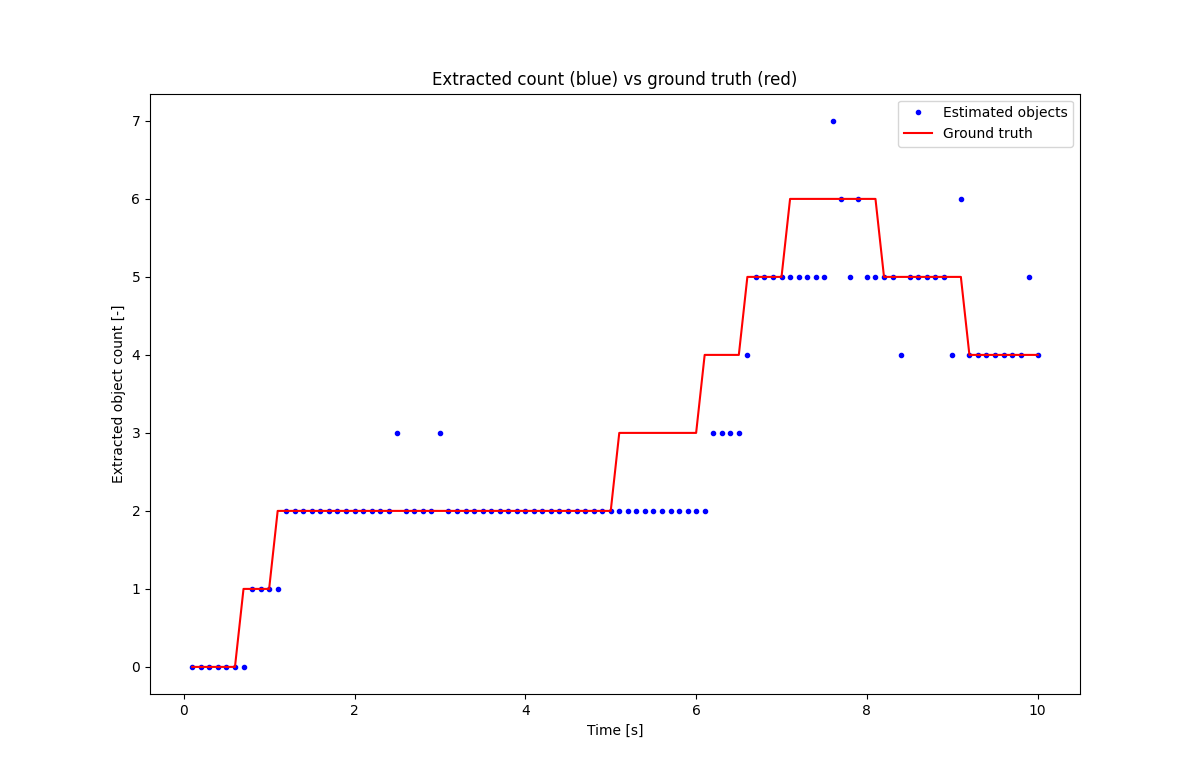
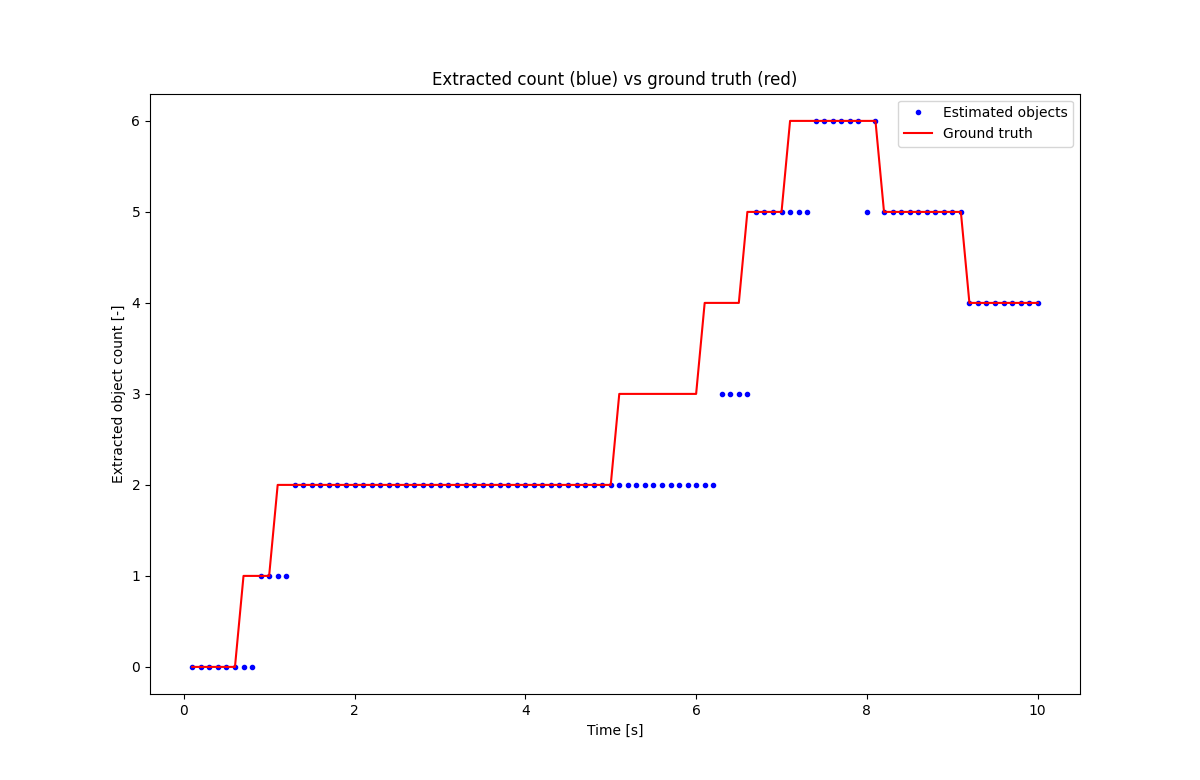
docs: update README for improved clarity and reproducibility; enhance example descriptions
feat: refactor simulation generation and parameter tuning in example code

fix: update binary figures for object count, OSPA, PHD weight sum, and position plots

diff --git a/example/example.cpp b/example/example.cpp
@@ -1,6 +1,7 @@
 #include <algorithm>
 #include <array>
 #include <filesystem>
+#include <initializer_list>
 #include <iostream>
 #include <limits>
 #include <map>
@@ -24,17 +25,18 @@ constexpr double ospa_cutoff = 10.0;
 constexpr double ospa_order = 2.0;
 
 constexpr unsigned int random_seed = 20261018u;
-std::mt19937 e1(random_seed);
-
-std::uniform_int_distribution<size_t> objects_number_dist(3u, 7u);
-std::uniform_int_distribution<size_t> start_dist(0u, measurements_number - 20u);
-std::uniform_int_distribution<size_t> duration_dist(20u, measurements_number);
-std::uniform_real_distribution<double> pose_dist(-10.0, 10.0);
-std::uniform_real_distribution<double> velocity_dist(-1.0, 1.0);
-std::uniform_real_distribution<double> clutter_position_dist(clutter_area_min, clutter_area_max);
-std::poisson_distribution<size_t> clutter_count_dist(8.0);
 using Filter = gm_phd_example::GmPhdCv;
 using Measurements = std::vector<Filter::Measurement>;
+
+struct FilterParameters {
+  double pd = 1.0;
+  double ps = 0.95;
+  double kappa =
+      8.0 / ((clutter_area_max - clutter_area_min) * (clutter_area_max - clutter_area_min));
+  double truncation_threshold = 0.01;
+  double merging_threshold = 4.0;
+  double extraction_threshold = 0.5;
+};
 
 struct SimulatedObject {
   size_t first_scan;
@@ -49,21 +51,39 @@ struct Simulation {
   std::vector<Measurements> clutter;
 };
 
-Simulation GenerateSimulation(void) {
+struct ExperimentResult {
+  std::vector<std::vector<Filter::Object>> objects_by_scan;
+  std::vector<int> object_count;
+  std::vector<int> truth_object_count;
+  std::vector<double> weights_sum;
+  std::vector<double> ospa_scores;
+  double mean_ospa = 0.0;
+};
+
+Simulation GenerateSimulation(const unsigned int seed) {
+  std::mt19937 random_engine(seed);
+  std::uniform_int_distribution<size_t> objects_number_dist(3u, 7u);
+  std::uniform_int_distribution<size_t> start_dist(0u, measurements_number - 20u);
+  std::uniform_int_distribution<size_t> duration_dist(20u, measurements_number);
+  std::uniform_real_distribution<double> pose_dist(-10.0, 10.0);
+  std::uniform_real_distribution<double> velocity_dist(-1.0, 1.0);
+  std::uniform_real_distribution<double> clutter_position_dist(clutter_area_min, clutter_area_max);
+  std::poisson_distribution<size_t> clutter_count_dist(8.0);
   std::normal_distribution<double> measurement_noise(0.0, 0.3);
+  const auto draw = [&random_engine](auto& distribution) { return distribution(random_engine); };
   Simulation simulation{std::vector<Measurements>(measurements_number),
                         std::vector<Measurements>(measurements_number),
                         std::vector<Measurements>(measurements_number),
                         std::vector<Measurements>(measurements_number)};
-  const auto objects_number = objects_number_dist(e1);
+  const auto objects_number = draw(objects_number_dist);
   std::vector<SimulatedObject> objects;
   objects.reserve(objects_number);
 
   for (size_t index = 0u; index < objects_number; ++index) {
-    const auto first_scan = start_dist(e1);
-    const auto last_scan = std::min(measurements_number - 1u, first_scan + duration_dist(e1));
+    const auto first_scan = draw(start_dist);
+    const auto last_scan = std::min(measurements_number - 1u, first_scan + draw(duration_dist));
     SimulatedObject object{first_scan, last_scan, Filter::StateVector::Zero()};
-    object.state << pose_dist(e1), velocity_dist(e1), pose_dist(e1), velocity_dist(e1);
+    object.state << draw(pose_dist), draw(velocity_dist), draw(pose_dist), draw(velocity_dist);
     objects.push_back(object);
   }
 
@@ -79,16 +99,16 @@ Simulation GenerateSimulation(void) {
       simulation.truth.at(scan).push_back(truth);
 
       auto measurement = truth;
-      measurement.value(0u) += measurement_noise(e1);
-      measurement.value(1u) += measurement_noise(e1);
+      measurement.value(0u) += draw(measurement_noise);
+      measurement.value(1u) += draw(measurement_noise);
       measurement.covariance = 0.09 * Filter::MeasurementMatrix::Identity();
       simulation.target_measurements.at(scan).push_back(measurement);
       simulation.measurements.at(scan).push_back(measurement);
     }
 
-    for (size_t clutter_index = 0u; clutter_index < clutter_count_dist(e1); ++clutter_index) {
+    for (size_t clutter_index = 0u; clutter_index < draw(clutter_count_dist); ++clutter_index) {
       Filter::Measurement clutter;
-      clutter.value << clutter_position_dist(e1), clutter_position_dist(e1);
+      clutter.value << draw(clutter_position_dist), draw(clutter_position_dist);
       clutter.covariance = 0.09 * Filter::MeasurementMatrix::Identity();
       simulation.clutter.at(scan).push_back(clutter);
       simulation.measurements.at(scan).push_back(clutter);
@@ -216,29 +236,30 @@ void SaveAndShow(const std::filesystem::path& output_path) {
   plt::close();
 }
 
-int main() {
-  Filter gm_phd_filter;
-  constexpr double clutter_intensity =
-      8.0 / ((clutter_area_max - clutter_area_min) * (clutter_area_max - clutter_area_min));
-  gm_phd_filter.SetCalibrations("pd", 1.0, "ps", 0.95, "kappa", clutter_intensity,
-                                "truncation_threshold", 0.01, "merging_threshold", 4.0,
-                                "extraction_threshold", 0.5);
-  const auto simulation = GenerateSimulation();
-  std::cout << "Random seed: " << random_seed << '\n';
+ExperimentResult RunExperiment(const Simulation& simulation, const FilterParameters& parameters,
+                               const bool print_scan_metrics = false) {
+  Filter filter;
+  const auto calibration = filter.SetCalibrations(
+      "pd", parameters.pd, "ps", parameters.ps, "kappa", parameters.kappa, "truncation_threshold",
+      parameters.truncation_threshold, "merging_threshold", parameters.merging_threshold,
+      "extraction_threshold", parameters.extraction_threshold);
+  if (!calibration) {
+    throw std::runtime_error("Failed to set filter calibrations: " + calibration.error());
+  }
 
-  // Run Filter
-  std::vector<std::vector<Filter::Object>> objects_all;
-  std::vector<int> objects_number;
-  std::vector<int> truth_objects_number;
-  std::vector<double> weights_sum;
-  std::vector<double> ospa_scores;
+  ExperimentResult result;
+  result.objects_by_scan.reserve(measurements_number);
+  result.object_count.reserve(measurements_number);
+  result.truth_object_count.reserve(measurements_number);
+  result.weights_sum.reserve(measurements_number);
+  result.ospa_scores.reserve(measurements_number);
   for (auto index = 0u; index < measurements_number; index++) {
-    gm_phd_filter.Run(static_cast<double>(index + 1u) * dt, simulation.measurements.at(index));
-    const auto objects = gm_phd_filter.GetObjects();
-    objects_all.push_back(objects);
-    objects_number.push_back(objects.size());
-    truth_objects_number.push_back(simulation.truth.at(index).size());
-    weights_sum.push_back(gm_phd_filter.GetWeightsSum());
+    filter.Run(static_cast<double>(index + 1u) * dt, simulation.measurements.at(index));
+    const auto& objects = filter.GetObjects();
+    result.objects_by_scan.push_back(objects);
+    result.object_count.push_back(static_cast<int>(objects.size()));
+    result.truth_object_count.push_back(static_cast<int>(simulation.truth.at(index).size()));
+    result.weights_sum.push_back(filter.GetWeightsSum());
     std::vector<mot::OspaPosition> estimated_positions;
     estimated_positions.reserve(objects.size());
     for (const auto& object : objects) {
@@ -249,21 +270,69 @@ int main() {
     for (const auto& target : simulation.truth.at(index)) {
       true_positions.push_back({target.value(0u), target.value(1u)});
     }
-    ospa_scores.push_back(
+    result.ospa_scores.push_back(
         mot::OspaDistance(estimated_positions, true_positions, ospa_cutoff, ospa_order));
-    std::cout << "Scan index: " << index << ", Objects number: " << objects.size()
-              << ", Truth objects: " << simulation.truth.at(index).size()
-              << ", Weights Sum: " << gm_phd_filter.GetWeightsSum()
-              << ", OSPA: " << ospa_scores.back() << " m\n";
+    if (print_scan_metrics) {
+      std::cout << "Scan index: " << index << ", Objects number: " << objects.size()
+                << ", Truth objects: " << simulation.truth.at(index).size()
+                << ", Weights Sum: " << filter.GetWeightsSum()
+                << ", OSPA: " << result.ospa_scores.back() << " m\n";
+    }
   }
-  const auto mean_ospa =
-      std::accumulate(ospa_scores.begin(), ospa_scores.end(), 0.0) / ospa_scores.size();
-  std::cout << "Mean OSPA (c=" << ospa_cutoff << " m, p=" << ospa_order << "): " << mean_ospa
-            << " m\n";
+  result.mean_ospa = std::accumulate(result.ospa_scores.begin(), result.ospa_scores.end(), 0.0) /
+                     result.ospa_scores.size();
+  return result;
+}
 
+double EvaluateParameters(const FilterParameters& parameters,
+                          const std::vector<Simulation>& simulations) {
+  auto total_ospa = 0.0;
+  for (const auto& simulation : simulations) {
+    total_ospa += RunExperiment(simulation, parameters).mean_ospa;
+  }
+  return total_ospa / simulations.size();
+}
+
+FilterParameters TuneParameters(const std::vector<Simulation>& simulations) {
+  FilterParameters best;
+  auto best_score = EvaluateParameters(best, simulations);
+  std::cout << "Initial mean OSPA: " << best_score << " m\n";
+
+  auto tune_parameter = [&](const std::string& name, double FilterParameters::* parameter,
+                            const std::initializer_list<double> candidates) {
+    auto parameter_best = best;
+    auto parameter_best_score = best_score;
+    for (const auto value : candidates) {
+      auto candidate = best;
+      candidate.*parameter = value;
+      const auto score = EvaluateParameters(candidate, simulations);
+      std::cout << "  " << name << '=' << value << " -> mean OSPA " << score << " m\n";
+      if (score < parameter_best_score) {
+        parameter_best = candidate;
+        parameter_best_score = score;
+      }
+    }
+    best = parameter_best;
+    best_score = parameter_best_score;
+    std::cout << "  Selected " << name << '=' << best.*parameter << " (mean OSPA " << best_score
+              << " m)\n";
+  };
+
+  tune_parameter("ps", &FilterParameters::ps, {0.8, 0.85, 0.90, 0.95, 0.99});
+  tune_parameter("kappa", &FilterParameters::kappa, {0.005, 0.01, 0.02, 0.05});
+  tune_parameter("truncation_threshold", &FilterParameters::truncation_threshold,
+                 {0.005, 0.01, 0.02, 0.04, 0.08, 0.1});
+  tune_parameter("merging_threshold", &FilterParameters::merging_threshold,
+                 {0.5, 1.0, 1.5, 2.0, 2.25, 2.5, 2.75, 3.0, 3.5, 4.0, 6.0, 8.0});
+  tune_parameter("extraction_threshold", &FilterParameters::extraction_threshold,
+                 {0.3, 0.4, 0.5, 0.6, 0.7, 0.8});
+  return best;
+}
+
+void SavePlots(const Simulation& simulation, const ExperimentResult& result) {
   const auto output_directory = std::filesystem::current_path() / "fig";
   std::filesystem::create_directories(output_directory);
-  const auto estimated_trajectories = BuildEstimatedTrajectories(objects_all);
+  const auto estimated_trajectories = BuildEstimatedTrajectories(result.objects_by_scan);
   std::vector<double> objects_x;
   std::vector<double> objects_y;
   std::vector<double> objects_time;
@@ -339,29 +408,55 @@ int main() {
   plt::title("Extracted count (blue) vs ground truth (red)");
   plt::xlabel("Time [s]");
   plt::ylabel("Extracted object count [-]");
-  PlotSeries(scan_times, std::vector<double>(objects_number.begin(), objects_number.end()),
-             "Estimated objects", "blue", ".");
   PlotSeries(scan_times,
-             std::vector<double>(truth_objects_number.begin(), truth_objects_number.end()),
-             "Ground truth", "red", "", "-");
+             std::vector<double>(result.object_count.begin(), result.object_count.end()),
+             "Estimated objects", "blue", ".");
+  PlotSeries(
+      scan_times,
+      std::vector<double>(result.truth_object_count.begin(), result.truth_object_count.end()),
+      "Ground truth", "red", "", "-");
   SaveAndShow(output_directory / "object_count.png");
 
   plt::figure_size(1200, 780);
   plt::title("PHD weight sum vs ground truth object count");
   plt::xlabel("Time [s]");
   plt::ylabel("Sum of hypothesis weights [-]");
-  PlotSeries(scan_times,
-             std::vector<double>(truth_objects_number.begin(), truth_objects_number.end()),
-             "Ground truth object count", "red", "", "--");
-  PlotSeries(scan_times, weights_sum, "PHD weight sum", "blue", "o", "-");
+  PlotSeries(
+      scan_times,
+      std::vector<double>(result.truth_object_count.begin(), result.truth_object_count.end()),
+      "Ground truth object count", "red", "", "--");
+  PlotSeries(scan_times, result.weights_sum, "PHD weight sum", "blue", "o", "-");
   SaveAndShow(output_directory / "phd_weight_sum.png");
 
   plt::figure_size(1200, 780);
   plt::title("OSPA distance (c=10 m, p=2)");
   plt::xlabel("Time [s]");
   plt::ylabel("OSPA [m]");
-  PlotSeries(scan_times, ospa_scores, "OSPA", "blue", "", "-");
+  PlotSeries(scan_times, result.ospa_scores, "OSPA", "blue", "", "-");
   SaveAndShow(output_directory / "ospa.png");
+}
 
+int main() {
+  constexpr size_t tuning_runs = 50u;
+  std::vector<Simulation> simulations;
+  simulations.reserve(tuning_runs);
+  for (size_t run = 0u; run < tuning_runs; ++run) {
+    const auto seed = random_seed + static_cast<unsigned int>(run);
+    std::cout << "Generated tuning run with seed: " << seed << '\n';
+    simulations.push_back(GenerateSimulation(seed));
+  }
+
+  const auto best_parameters = TuneParameters(simulations);
+  const auto best_result = RunExperiment(simulations.front(), best_parameters, true);
+  std::cout << "Selected parameters: pd=" << best_parameters.pd << ", ps=" << best_parameters.ps
+            << ", kappa=" << best_parameters.kappa
+            << ", truncation_threshold=" << best_parameters.truncation_threshold
+            << ", merging_threshold=" << best_parameters.merging_threshold
+            << ", extraction_threshold=" << best_parameters.extraction_threshold << '\n'
+            << "Mean OSPA on selected plot run (c=" << ospa_cutoff << " m, p=" << ospa_order
+            << "): " << best_result.mean_ospa << " m\n"
+            << "Mean OSPA across tuning runs: " << EvaluateParameters(best_parameters, simulations)
+            << " m\n";
+  SavePlots(simulations.front(), best_result);
   return 0;
 }

diff --git a/README.md b/README.md
@@ -32,8 +32,8 @@ random scene with a varying number of objects, dynamic births and deaths,
 measurements, filtering, and plots.
 
 The simulation sends all target and clutter measurements through the filter,
-including the measurement-conditioned birth model. The example uses a fixed
-random seed so runs are reproducible.
+including the measurement-conditioned birth model. The example uses fixed seeds
+so runs are reproducible.
 Its detection probability is set to 1 because the simulation does not generate
 missed target detections. The birth model's velocity variance matches the
 uniform `[-1, 1]` velocity prior used by the scene generator. Measurement-born
@@ -41,15 +41,24 @@ hypotheses use a low initial weight (`0.001`) to limit false tracks from
 clutter; the birth weight and clutter intensity should be retuned for different
 scenes. The example deliberately uses an observation covariance of `0.36 I`
 for generated measurements whose covariance is `0.09 I`, making tracks
-smoother at the cost of a small increase in localization error. With seed
-`20261018`, this all-measurements example reports a mean OSPA of about `1.87 m`;
-this depends on the simulation, initialization delay, and chosen calibrations
-and is not a general performance guarantee.
+smoother at the cost of a small increase in localization error. The reported
+OSPA depends on the simulation seeds and selected calibrations, and is not a
+general performance guarantee.
+
+Before plotting, the example now evaluates filter configurations on fifty
+deterministic simulation runs and tunes `ps`, `kappa`, the pruning threshold,
+the merging threshold, and the extraction threshold by coordinate search.
+Each candidate is scored by its mean OSPA across the same runs; the lowest
+scoring tested value is selected for each parameter in turn. `pd` stays at 1.0
+because this simulation does not generate missed detections. The plots show
+the selected configuration on the first run. This is a small reproducible
+search for this example, not a substitute for validation on held-out or
+application-specific data.
 
 ## Example
 
-The fixed-seed run writes six PNG plots to `fig/` in the current working
-directory. Each plot includes a legend:
+The tuned run writes six PNG plots to `fig/` in the current working directory.
+Each plot includes a legend:
 
 - `positions_xy.png` compares estimated object trajectories with simulated
   ground truth, noisy target measurements, and clutter in the XY plane.
